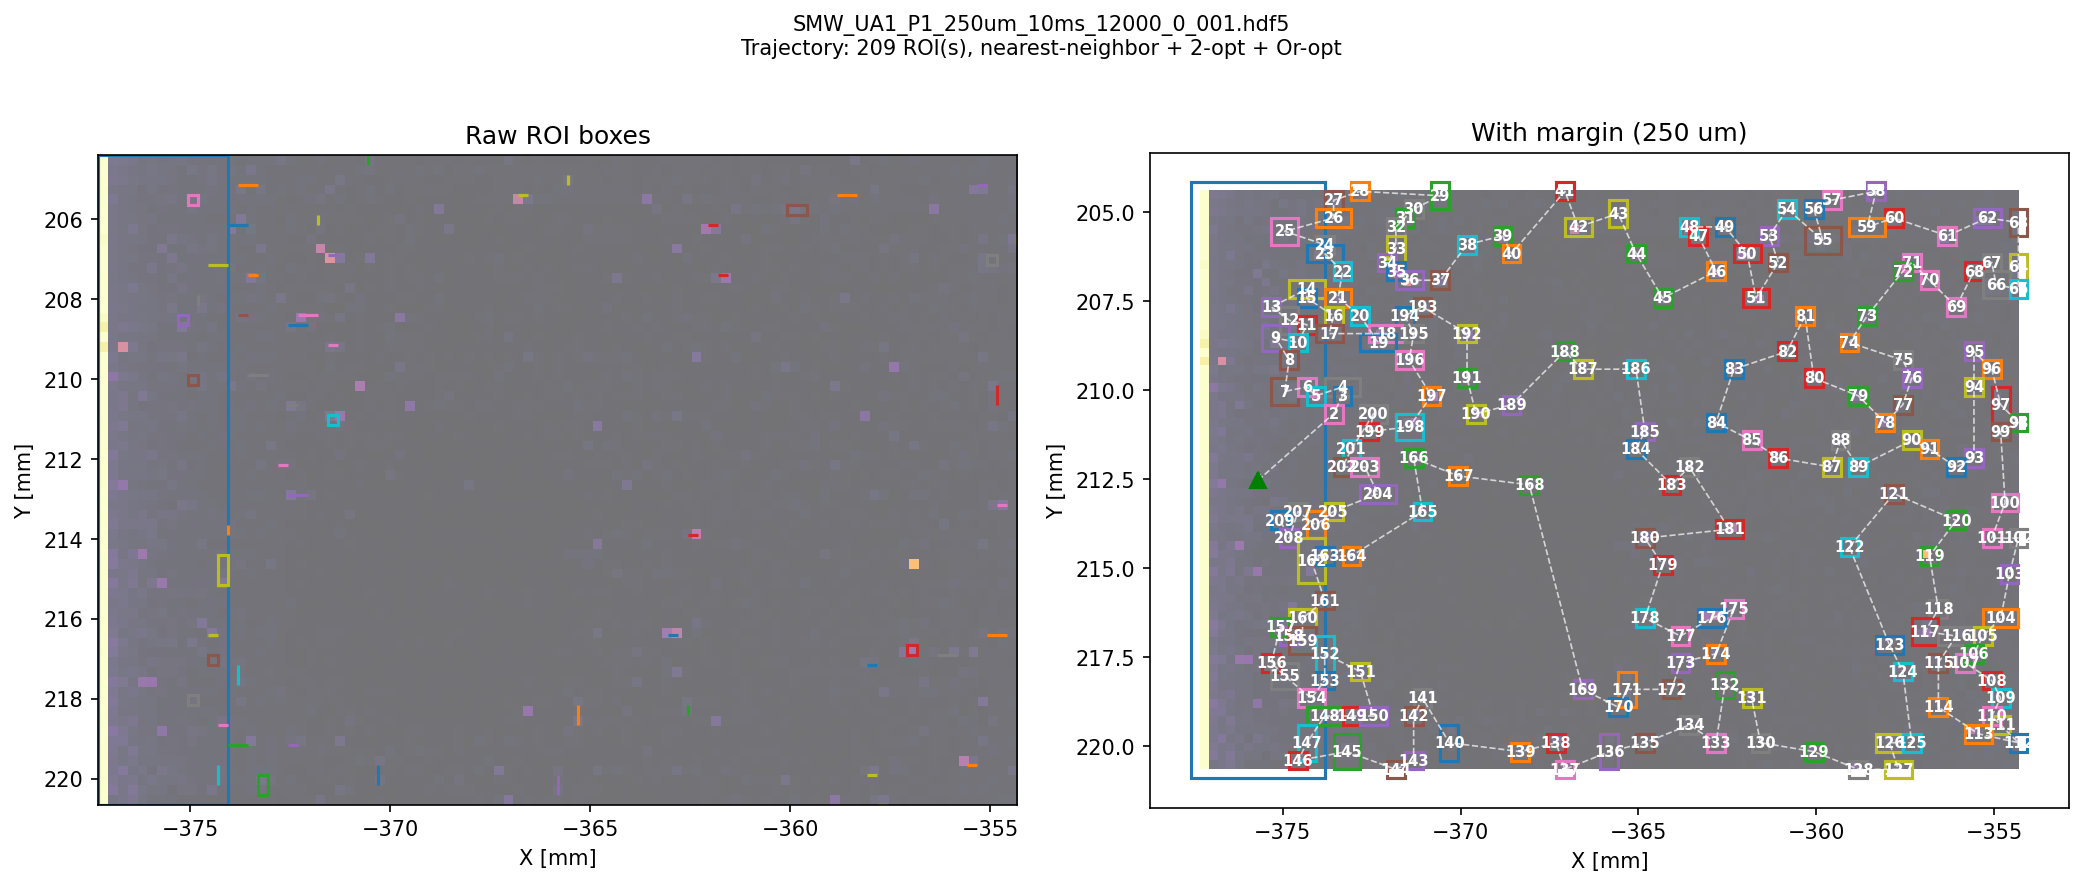
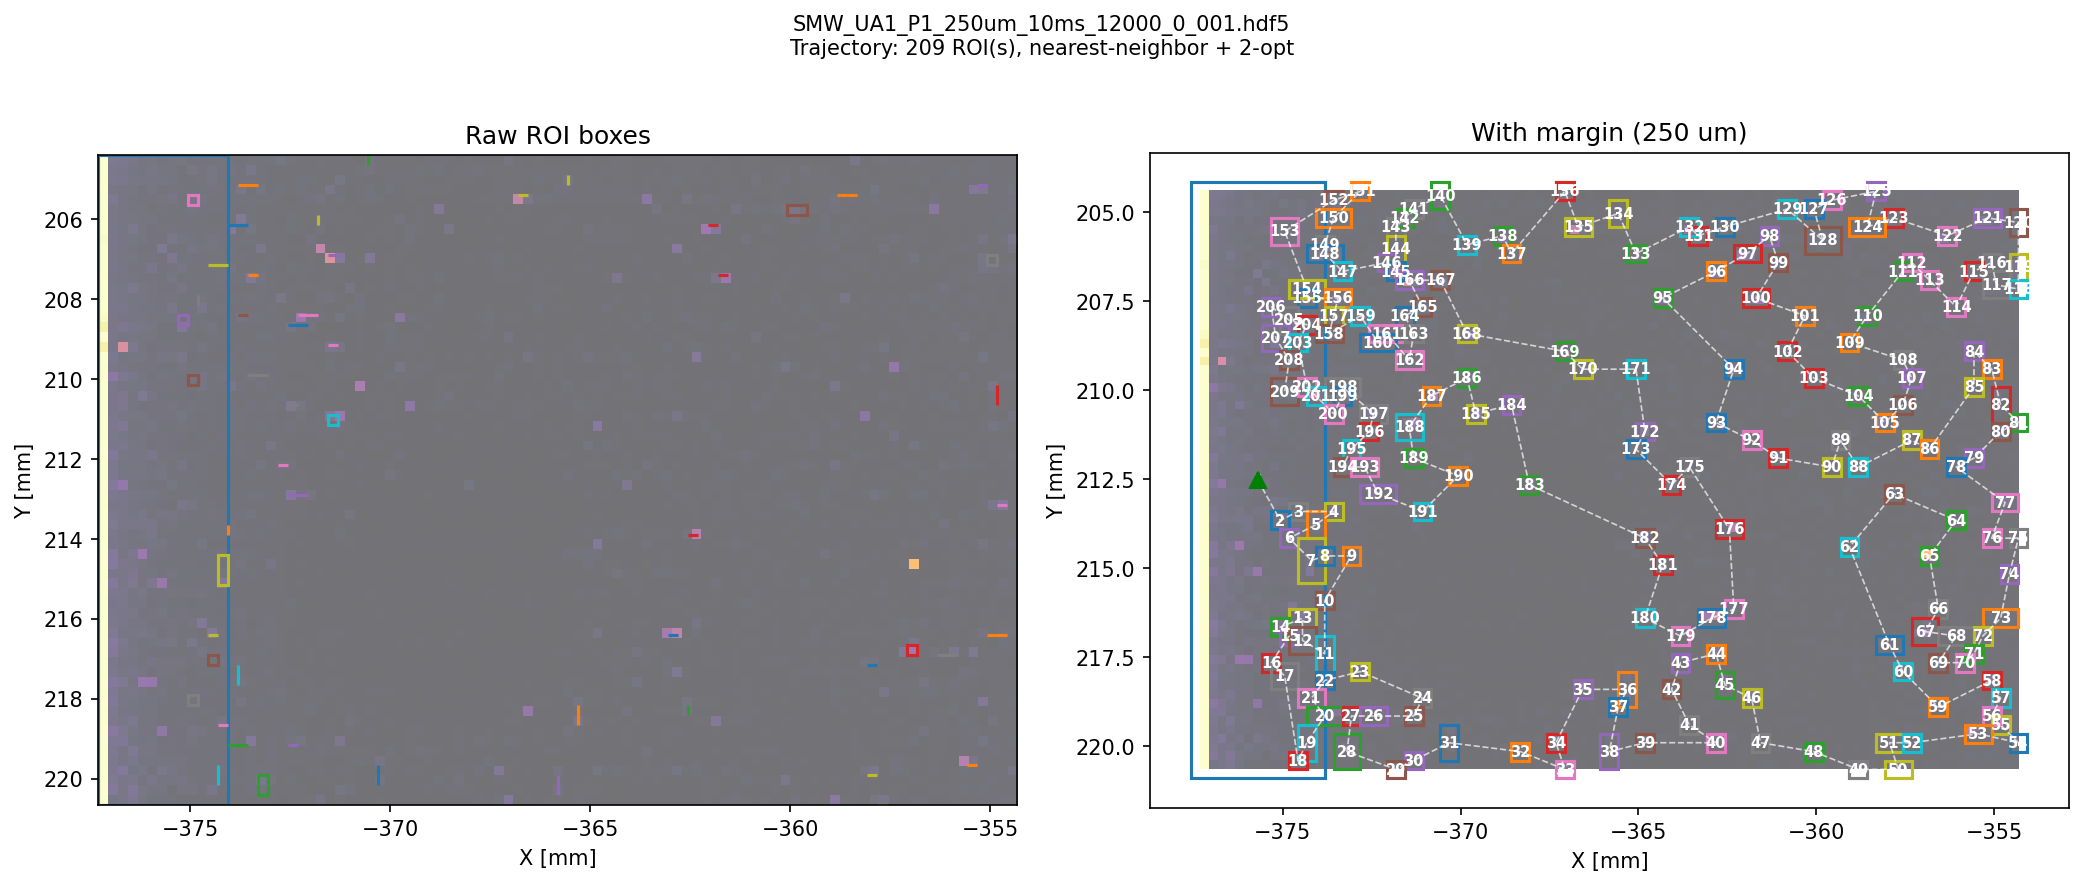
Report: add multi-sample results gallery (12 figures) + strategy map; fix script 01 Windows filename
- progress_report v2: new section 12 'Results gallery' with current figures across
  UA1_P1/UB1_P1/FP1_P1 — strategy map, per-element sparsity, ROI/validation, scan
  trajectory, hierarchical cascade, production scan plan.
- 09: --plot strategy map (sample_frac x concentration, coloured by recommended method).
- 01: sanitize the figure filename (channel-sum labels contained ':' '+', illegal on
  Windows -> the script crashed and left a malformed file).

diff --git a/scripts/09_recommend_strategy.py b/scripts/09_recommend_strategy.py
@@ -26,13 +26,14 @@ Usage:
 """
 
 import argparse
+import re
 import sys
 from pathlib import Path
 
 sys.path.insert(0, str(Path(__file__).parent))
-from utils.strategy import describe_sample, recommend
+from utils.strategy import describe_sample, recommend, choose_strategy
 from utils.cascade import find_level_file
-from utils.paths import find_coarse, require
+from utils.paths import find_coarse, require, DATA_DIR, PROJECT_ROOT
 
 
 def parse_args():
@@ -43,7 +44,66 @@ def parse_args():
     p.add_argument("--batch", nargs="+", default=None,
                    help="Run on multiple sample stems (e.g. UA1_P1 UB1_P1 FP1_P1)")
     p.add_argument("--res-um", default=250, type=int, help="Coarse resolution [um]")
+    p.add_argument("--plot", action="store_true",
+                   help="Save the strategy map (sample_frac x concentration, "
+                        "coloured by recommended method) over all/--batch samples")
     return p.parse_args()
+
+
+def _discover_stems():
+    """All sample stems present under data/ (e.g. UA1_P1, FP1_1x1, ...)."""
+    stems = set()
+    for f in DATA_DIR.rglob("*um_*.hdf5"):
+        m = re.match(r"SMW_(.+?)_\d+um_", f.name)
+        if m:
+            stems.add(m.group(1))
+    return sorted(stems)
+
+
+def plot_strategy_map(samples, res_um=250):
+    """Scatter sample_frac x concentration, coloured by recommended method,
+    with the recommender's decision regions. Shows 'which strategy when'."""
+    import matplotlib
+    matplotlib.use("Agg")
+    import matplotlib.pyplot as plt
+
+    colors = {"roi": "#2ca02c", "combined": "#ff7f0e", "temporal": "#1f77b4"}
+    pts = []
+    for s in samples:
+        path = coarse_path_for(s, res_um)
+        if path is None or not path.exists():
+            continue
+        d = describe_sample(path)
+        pts.append((s, d["sample_frac"], d["concentration"], choose_strategy(d)["method"]))
+    if not pts:
+        raise SystemExit("No samples found to plot.")
+
+    fig, ax = plt.subplots(figsize=(7.5, 5.5))
+    ax.axvspan(0, 0.30, color="#2ca02c", alpha=0.06)
+    ax.axvspan(0.30, 0.70, color="#ff7f0e", alpha=0.06)
+    ax.axvspan(0.70, 1.0, color="#1f77b4", alpha=0.06)
+    ax.axvline(0.30, color="gray", ls=":", lw=1)
+    ax.axvline(0.70, color="gray", ls=":", lw=1)
+    ax.axhline(0.70, color="gray", ls="--", lw=1)
+    seen = set()
+    for s, sf, c, meth in pts:
+        ax.scatter(sf, c, s=70, color=colors.get(meth, "k"), edgecolor="k", zorder=3,
+                   label=meth if meth not in seen else None)
+        seen.add(meth)
+        ax.annotate(s, (sf, c), textcoords="offset points", xytext=(5, 4), fontsize=7)
+    ax.set_xlabel("sample_frac  (occupied area)")
+    ax.set_ylabel("concentration  (signal in top-10% pixels)")
+    ax.set_title("Recommended strategy per sample\n"
+                 "(green<30% ROI | 30-70% combined | >70% temporal, "
+                 "or combined if concentration>70%)")
+    ax.set_xlim(0, 1); ax.set_ylim(0, 1.02)
+    ax.legend(title="method", fontsize=8)
+    fig.tight_layout()
+    out = PROJECT_ROOT / "outputs" / "report_strategy_map.png"
+    out.parent.mkdir(exist_ok=True)
+    fig.savefig(out, dpi=150, bbox_inches="tight")
+    plt.close(fig)
+    print(f"  saved -> {out}  ({len(pts)} samples)")
 
 
 def coarse_path_for(sample, res_um):
@@ -75,6 +135,10 @@ def print_report(desc):
 
 def main():
     args = parse_args()
+
+    if args.plot:
+        plot_strategy_map(args.batch or _discover_stems(), args.res_um)
+        return
 
     if args.batch:
         for sample in args.batch:

diff --git a/scripts/01_roi_detection.py b/scripts/01_roi_detection.py
@@ -122,7 +122,10 @@ def plot_results(data, channel_label, composite, mask, thresh, labeled, boxes, a
 
     plt.tight_layout()
     OUTPUT_DIR.mkdir(exist_ok=True)
-    tag = "all" if "all elements" in channel_label else channel_label.replace(".", "_").replace(" ", "")
+    # Sanitize the tag: channel labels can contain ':' '+' '.' (e.g. a channel
+    # sum), which are illegal in Windows filenames. Keep it short and safe.
+    tag = ("all" if "all elements" in channel_label else
+           "".join(ch if ch.isalnum() else "_" for ch in channel_label).strip("_")[:40])
     outpath = OUTPUT_DIR / f"{Path(args.file).stem}_roi_{tag}.png"
     plt.savefig(outpath, dpi=150, bbox_inches="tight")
     print(f"Figure saved -> {outpath}")

diff --git a/outputs/progress_report.md b/outputs/progress_report.md
@@ -18,7 +18,7 @@
 - **At equal scan time, optimal temporal dwell improves image quality.** The MSE-optimal allocation is **t ∝ √signal** (`sqrt`); on UA1 it is the only strategy that beats a uniform raster (MSE ratio **1.10×**). This is the paper-2-style "same time, better image" result, and it works even on dense samples.
 - **Engineering:** single-source utility modules, a descriptor-based recommender, a Poisson-MSE quality metric, and a **39-test** suite.
 
-**Open questions for Sam are collected in §10.**
+**Open questions for Sam are collected in §10. Result figures are in §12.**
 
 ---
 
@@ -303,5 +303,52 @@ scripts/
     └── cli.py / paths.py  shared args / portable paths
 tests/   39 pytest tests (metric math, dwell, labeling, cascade, golden recommender)
 ```
+
+## 12. Results gallery
+
+Figures regenerated with the current code (reproduce via the §4 commands).
+Per-sample figures cover the three samples **UA1_P1, UB1_P1, FP1_P1**.
+
+### Which strategy per sample (recommender, script 09)
+All samples land in the dense region → temporal/combined (none is spatially sparse
+on the composite).
+
+![Strategy map](report_strategy_map.png)
+
+### Per-element sparsity — the headline (script 11)
+The composite is dense, but each element's signal sits in ~10–20 % of pixels:
+
+![Per-element UA1_P1](report_per_element_UA1_P1.png)
+![Per-element UB1_P1](report_per_element_UB1_P1.png)
+![Per-element FP1_P1](report_per_element_FP1_P1.png)
+
+### ROI detection + missed signal at coarse (script 03)
+Spatial ROI boxes on the coarse composite and the signal they would miss —
+illustrates subpixel averaging on dense samples:
+
+![Validation UA1_P1](SMW_UA1_P1_25um_10ms_12000_0_001_validation.png)
+![Validation UB1_P1](SMW_UB1_P1_25um_10ms_12000_0_001_validation.png)
+![Validation FP1_P1](SMW_FP1_P1_50um_10ms_12000_0_001_validation.png)
+
+### Scan trajectory (script 02)
+TSP path (nearest-neighbour + 2-opt) between regions; travel is <1 % of total time:
+
+![Trajectory UA1_P1](SMW_UA1_P1_250um_10ms_12000_0_001_trajectory.png)
+![Trajectory UB1_P1](SMW_UB1_P1_250um_10ms_12000_0_001_trajectory.png)
+![Trajectory FP1_P1](SMW_FP1_P1_250um_10ms_12000_0_001_trajectory.png)
+
+### Hierarchical cascade (script 05)
+Footprint refinement 250→100→50(→25) µm:
+
+![Cascade UA1_P1](UA1_P1_hierarchical_250_100_50_25.png)
+![Cascade UB1_P1](UB1_P1_hierarchical_250_100_50_25.png)
+![Cascade FP1_P1](FP1_P1_hierarchical_250_100_50.png)
+
+### Production scan plan (script 10, simulate)
+Footprint (cyan) + scan regions (lime) + allocated dwell map:
+
+![Scan plan UA1_P1](UA1_P1_simulate_scan_plan.png)
+![Scan plan UB1_P1](UB1_P1_simulate_scan_plan.png)
+![Scan plan FP1_P1](FP1_P1_simulate_scan_plan.png)
 
 *End of report (v2).*
